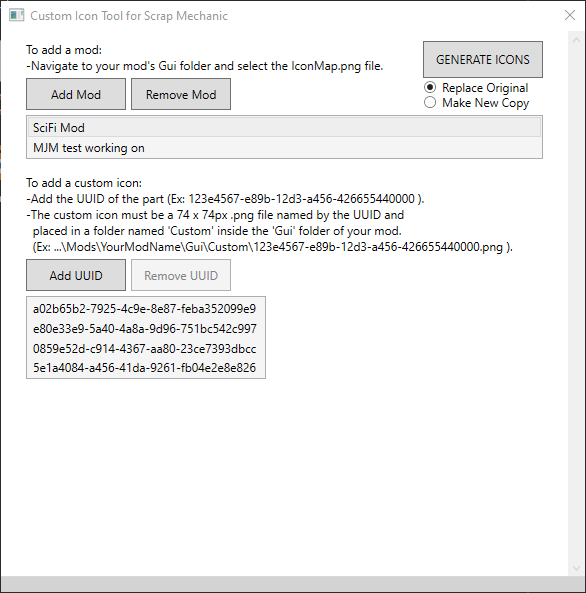
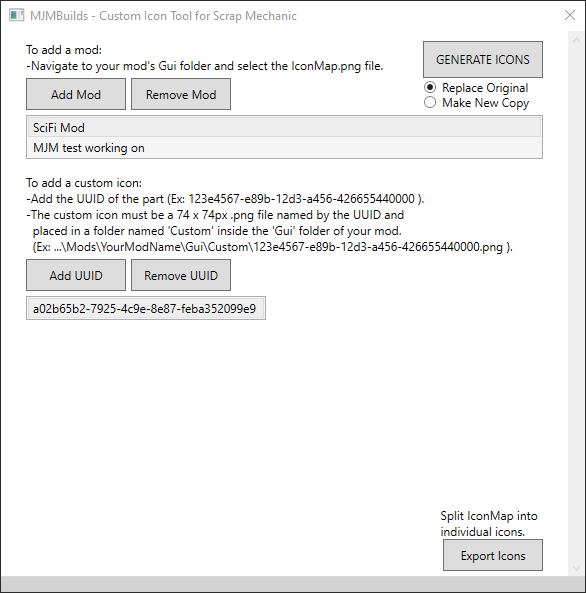
Update Screenshot
Update Screenshot

diff --git a/IconPatcher/MainWindow.xaml b/IconPatcher/MainWindow.xaml
@@ -5,7 +5,7 @@
         xmlns:mc="http://schemas.openxmlformats.org/markup-compatibility/2006"
         xmlns:local="clr-namespace:IconPatcher"
         mc:Ignorable="d"
-        Title="Custom Icon Tool for Scrap Mechanic" Height="600" Width="600"
+        Title="MJMBuilds - Custom Icon Tool for Scrap Mechanic" Height="600" Width="600"
         ResizeMode="NoResize"
         >
     <Window.Resources>
